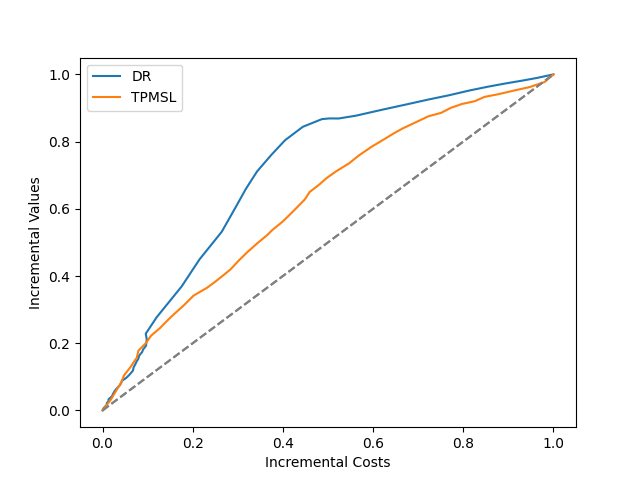
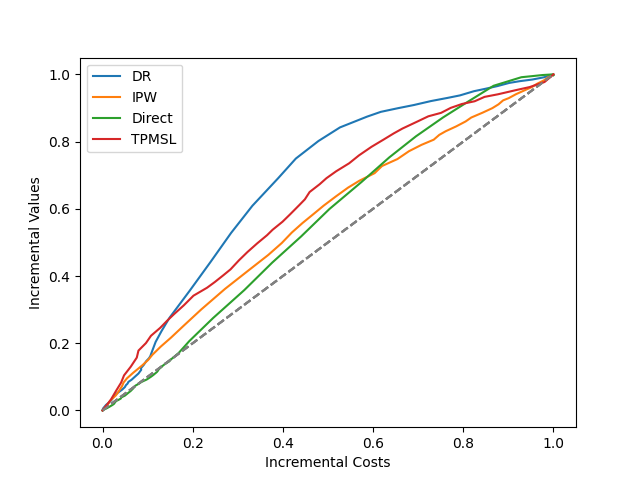
傾向スコアを予測値に変更

diff --git a/main.py b/main.py
@@ -43,8 +43,8 @@ def main(predict_ps: bool) -> None:
     train_dataset, val_dataset, test_dataset = split_dataset(dataset)
     model = get_model(model_name=model_name, model_params=model_params)
     method_list: list = ["DR",
-                        #  "IPW",
-                        #  "Direct"
+                         "IPW",
+                         "Direct"
                          ]
     roi_dic = {}
     for method in method_list:
@@ -94,4 +94,4 @@ def main(predict_ps: bool) -> None:
 
 
 if __name__ == "__main__":
-    main(predict_ps=False)
+    main(predict_ps=True)
